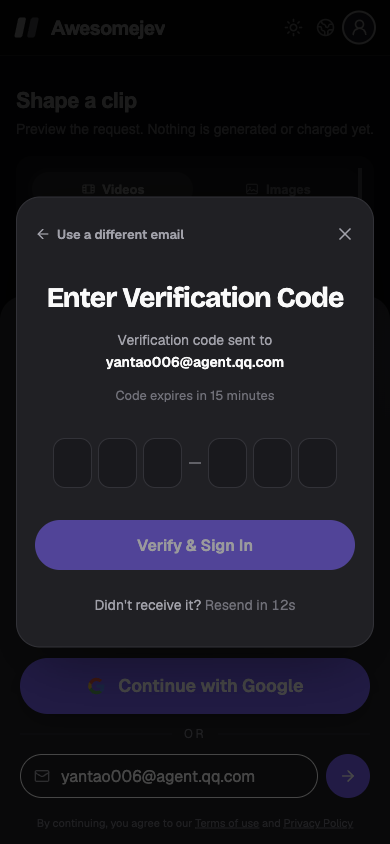
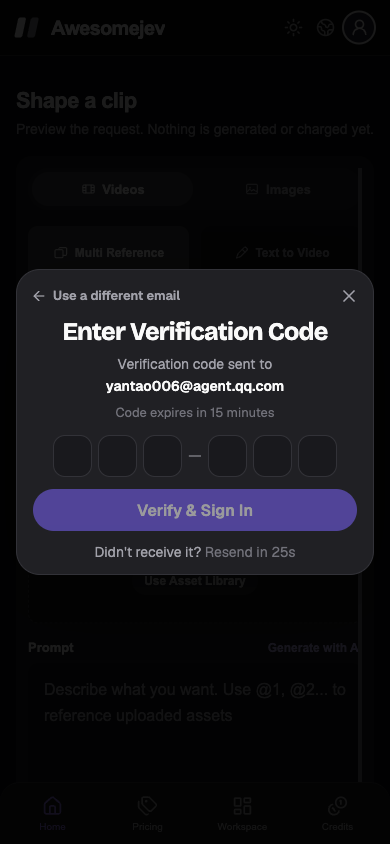
Show wide OTP card alone and close full sign-in

diff --git a/src/components/blocks/auth-6.css b/src/components/blocks/auth-6.css
@@ -1,21 +1,21 @@
 .auth6-overlay { position: fixed; inset: 0; z-index: 120; display: grid; place-items: center; padding: 16px; background: rgba(0,0,0,.72); }
-.auth6-dialog { width: min(100%, 420px); max-height: calc(100dvh - 32px); overflow-y: auto; overscroll-behavior: contain; border: 1px solid var(--auth-card-line); border-radius: 24px; background: var(--auth-card-panel); color: var(--auth-card-text); box-shadow: 0 24px 70px -16px rgba(0,0,0,.48); font: 400 14px/1.5 'Auth Card Geist', system-ui, sans-serif; }
+.auth6-dialog { width: min(100%, 580px); max-height: calc(100dvh - 32px); overflow-y: auto; overscroll-behavior: contain; border: 1px solid var(--auth-card-line); border-radius: 24px; background: var(--auth-card-panel); color: var(--auth-card-text); box-shadow: 0 24px 70px -16px rgba(0,0,0,.48); font: 400 14px/1.5 'Auth Card Geist', system-ui, sans-serif; }
 .auth6-dialog *, .auth6-dialog *::before, .auth6-dialog *::after { box-sizing: border-box; }
 .auth6-dialog button, .auth6-dialog input { font: inherit; }
 .auth6-dialog button { cursor: pointer; }
 .auth6-dialog :is(button, input):focus-visible { outline: 2px solid var(--auth-card-focus); outline-offset: 3px; }
-.auth6-content { padding: 24px 28px 36px; text-align: center; }
+.auth6-content { padding: 24px 40px 32px; text-align: center; }
 .auth6-top { display: flex; align-items: center; justify-content: space-between; gap: 12px; }
 .auth6-top button { display: inline-flex; align-items: center; justify-content: center; padding: 6px; border: 0; background: transparent; color: var(--auth-card-muted); transition: color .2s; }
 .auth6-top button:hover { color: var(--auth-card-text); }
 .auth6-top .auth6-back { gap: 6px; margin-left: -6px; font-size: 13px; font-weight: 600; }
 .auth6-top .auth6-close { margin-right: -6px; border-radius: 50%; }
-.auth6-intro { margin-top: 40px; }
+.auth6-intro { margin-top: 20px; }
 .auth6-intro h2 { margin: 0; font: 700 28px/1.15 'Auth Card Bricolage', system-ui, sans-serif; letter-spacing: -.03em; }
 .auth6-intro p { margin: 14px 0 0; color: var(--auth-card-muted); line-height: 1.6; }
 .auth6-intro strong { display: block; overflow-wrap: anywhere; color: var(--auth-card-text); font-weight: 600; }
 .auth6-intro .auth6-expiry { margin-top: 12px; color: var(--auth-card-faint); font-size: 13px; }
-.auth6-form { margin-top: 32px; }
+.auth6-form { margin-top: 22px; }
 .auth6-form fieldset { min-width: 0; margin: 0; padding: 0; border: 0; }
 .auth6-digits { display: flex; align-items: center; justify-content: center; gap: 9px; }
 .auth6-group { display: flex; gap: 7px; }
@@ -24,20 +24,27 @@
 .auth6-digit:focus { border-color: var(--auth-card-focus); box-shadow: 0 0 0 3px rgba(122,91,255,.18); }
 .auth6-digit.is-filled { border-color: var(--auth-card-focus); }
 .auth6-separator { width: 12px; height: 1px; flex: 0 0 12px; background: var(--auth-card-muted); }
-.auth6-submit { display: flex; width: 100%; height: 50px; align-items: center; justify-content: center; margin-top: 32px; border: 0; border-radius: 9999px; background: var(--auth-card-button); color: var(--auth-card-on-button); font-size: 16px !important; font-weight: 600 !important; transition: background .2s; }
+.auth6-submit { display: flex; width: 100%; height: 48px; align-items: center; justify-content: center; margin-top: 22px; border: 0; border-radius: 9999px; background: var(--auth-card-button); color: var(--auth-card-on-button); font-size: 16px !important; font-weight: 600 !important; transition: background .2s; }
 .auth6-submit:hover:not(:disabled) { background: var(--auth-card-button-hover); }
 .auth6-submit:disabled { opacity: .55; cursor: not-allowed; }
-.auth6-resend { margin: 24px 0 0; color: var(--auth-card-muted); }
+.auth6-resend { margin: 18px 0 0; color: var(--auth-card-muted); }
 .auth6-resend button { padding: 0; border: 0; background: transparent; color: var(--auth-card-text); font-weight: 600; }
 .auth6-resend button:hover { text-decoration: underline; }
 .auth6-resend button:disabled { opacity: .5; cursor: wait; }
 .auth6-countdown { color: var(--auth-card-faint); font-variant-numeric: tabular-nums; }
 .auth6-error { margin: 16px 0 0; color: var(--auth-card-error); }
 @media (max-width: 440px) {
-  body .auth6-content { padding: 20px 18px 32px; }
-  body .auth6-intro { margin-top: 32px; }
-  body .auth6-digit { width: 39px; height: 50px; }
+  body .auth6-content { padding: 12px 16px; }
+  body .auth6-top button { padding: 4px; }
+  body .auth6-intro { margin-top: 8px; }
+  body .auth6-intro h2 { font-size: 25px; }
+  body .auth6-intro p { margin-top: 6px; }
+  body .auth6-intro .auth6-expiry { margin-top: 5px; }
+  body .auth6-form { margin-top: 12px; }
+  body .auth6-digit { width: 39px; height: 42px; }
   body .auth6-digits { gap: 7px; }
   body .auth6-group { gap: 6px; }
+  body .auth6-submit { height: 42px; margin-top: 12px; }
+  body .auth6-resend { margin-top: 10px; }
 }
 @media (prefers-reduced-motion: reduce) { .auth6-dialog :is(button, input) { transition: none; } }

diff --git a/src/components/blocks/minimax-auth-card.tsx b/src/components/blocks/minimax-auth-card.tsx
@@ -20,9 +20,10 @@ export type MinimaxAuthCardProps = Auth4Props & {
   };
   signupCredits: number;
   onCodeOpenChange?: (open: boolean) => void;
+  onCloseAuth?: () => void;
 };
 
-export function MinimaxAuthCard({ copy, card, signupCredits, brand, logo, methods, inviteRequired, locale, callbackURL, onAuthenticated, onOAuthStart, onOAuthFailure, onCodeOpenChange }: MinimaxAuthCardProps) {
+export function MinimaxAuthCard({ copy, card, signupCredits, brand, logo, methods, inviteRequired, locale, callbackURL, onAuthenticated, onOAuthStart, onOAuthFailure, onCodeOpenChange, onCloseAuth }: MinimaxAuthCardProps) {
   const [mode, setMode] = useState<'sign-in' | 'sign-up' | 'forgot' | 'verify'>('sign-in');
   const [emailExpanded, setEmailExpanded] = useState(false);
   const [email, setEmail] = useState('');
@@ -166,6 +167,6 @@ export function MinimaxAuthCard({ copy, card, signupCredits, brand, logo, method
       </div>}
     </div>
   </div>
-  {codeOpen && <Auth6 email={sentEmail} copy={copy} onClose={closeCode} onDifferentEmail={changeEmail} onAuthenticated={() => onAuthenticated('email-code')} returnFocus={emailInput} />}
+  {codeOpen && <Auth6 email={sentEmail} copy={copy} onClose={onCloseAuth ?? closeCode} onDifferentEmail={changeEmail} onAuthenticated={() => onAuthenticated('email-code')} returnFocus={emailInput} />}
   </>;
 }

diff --git a/src/components/auth-dialog.tsx b/src/components/auth-dialog.tsx
@@ -143,9 +143,9 @@ export function AuthDialogProvider({ children, ...auth }: Omit<MinimaxAuthCardPr
   return <Context.Provider value={{ openAuth, closeAuth }}>
     <div ref={shell} className="public-shell">{children}</div>
     {open && createPortal(<div ref={backdrop} className="auth4-overlay minimax-auth-overlay" aria-label={auth.copy.signIn}>
-      <div ref={dialog} role="dialog" aria-modal={!codeOpen} aria-hidden={codeOpen} inert={codeOpen} aria-labelledby="auth4-title" className="auth4-dialog minimax-auth-dialog">
+      <div ref={dialog} role="dialog" aria-modal={!codeOpen} hidden={codeOpen} inert={codeOpen} aria-labelledby="auth4-title" className="auth4-dialog minimax-auth-dialog">
         <button type="button" className="auth4-close" onClick={closeAuth} aria-label={auth.copy.close}><X size={20} /></button>
-        <MinimaxAuthCard {...auth} callbackURL={callbackURL} onAuthenticated={onAuthenticated} onOAuthStart={onOAuthStart} onOAuthFailure={onOAuthFailure} onCodeOpenChange={setCodeOpen} />
+        <MinimaxAuthCard {...auth} callbackURL={callbackURL} onAuthenticated={onAuthenticated} onOAuthStart={onOAuthStart} onOAuthFailure={onOAuthFailure} onCodeOpenChange={setCodeOpen} onCloseAuth={closeAuth} />
       </div>
     </div>, document.body)}
   </Context.Provider>;

diff --git a/test/auth-dialog.test.ts b/test/auth-dialog.test.ts
@@ -101,7 +101,9 @@ test('one shared Auth-4 dialog uses server session confirmation and does not rep
   assert.match(shell, /<AuthDialogProvider/);
   assert.match(provider, /createPortal\(/);
   assert.match(provider, /active: open && !codeOpen/);
-  assert.match(provider, /inert=\{codeOpen\}/);
+  assert.match(provider, /hidden=\{codeOpen\} inert=\{codeOpen\}/);
+  assert.match(provider, /onCloseAuth=\{closeAuth\}/);
+  assert.match(source('src/components/blocks/minimax-auth-card.tsx'), /onClose=\{onCloseAuth \?\? closeCode\}/);
   assert.match(provider, /\/api\/auth\/get-session/);
   assert.match(provider, /if \(!\(await serverHasSession\(\)\)\)/);
   assert.match(auth4, /authClient\.emailOtp\.sendVerificationOtp/);

diff --git a/docs/verification/email-otp-dialog/README.md b/docs/verification/email-otp-dialog/README.md
@@ -4,23 +4,24 @@ Preview alias:
 
 https://popovers-awesomejev-test.yantao006.workers.dev/en
 
-Worker version: `19c78194-f102-4e77-8cb7-7ff8ca82f162`.
-Uploaded using `pnpm cf:build` and `pnpm exec wrangler versions upload --preview-alias popovers --message otp-dialog`, not deployed to production.
+Worker version: `a17c646e-c744-4eef-bc32-d351bfa22a0f`.
+Uploaded using `pnpm cf:build` and `pnpm exec wrangler versions upload --preview-alias popovers --message otp-wide-mobile`, not deployed to production.
 `SITE_URL` was not changed.
 
 ## Unsigned ego-browser run
 
 Opened Sign In and the email entry within the source-inspired card.
 Submitted an owner-controlled email address and waited for a successful send response before the separate dialog appeared.
-The code was not shown inside the email card.
+The email card disappears while the code dialog is open, leaving only the page behind the wide dialog.
 Confirmed the top-left Use a different email action, top-right close button, no diamond icon, Enter Verification Code, a separate stronger email line after Verification code sent to, Code expires in 15 minutes, grouped six fields with central divider, a disabled Verify & Sign In until six digits, and Didn't receive it? with Resend in Ns followed by Resend code.
-At 2548 × 1341 the dialog measured 420 × 471px; at 390 × 844 it measured 358 × 451px with no horizontal overflow.
+At 1440 × 900 the dialog measured 580 × 419px; at 390 × 844 it measured 358 × 306px with no horizontal overflow.
+Both measured widths exceed their heights.
 The desktop dialog used the existing dark auth-card panel and purple button token.
 Entered one digit to confirm focus advanced; Backspace on an empty field focused the previous field; pasted six digits to confirm all cells filled and the verify button enabled.
 Did not submit a real code.
 Clicked Use a different email and confirmed focus returned to the original editable email input with the code layer closed.
 Changed the email, sent a second code, waited for the 30-second cooldown and clicked Resend code; the cooldown restarted on successful resend.
-Clicked the close X and confirmed only the code layer closed while the email card remained open with the current address.
+Clicked the close X and confirmed the whole sign-in flow closed, with neither the code layer nor email card left open.
 
 Screenshots:
 

diff --git a/README.md b/README.md
@@ -91,11 +91,12 @@ The expanded email input follows the OR divider in a column flow with 12px of se
 
 The preview alias now serves `minimax-auth-card.tsx` for the email entry and the licensed Auth-6 adaptation in `src/components/blocks/auth-6.tsx` for the six-digit code.
 The Auth-4 original and Google sign-in remain unchanged.
-A successful send opens the independent dialog, while verification and resend call the existing better-auth email OTP methods.
-An ego-browser unsigned desktop and 390px mobile run confirmed the dialog, copy, grouping, paste/auto-advance/backspace, resend cooldown, email-change return, and code-only close.
+A successful send hides the email card and opens the independent wide dialog; Use a different email restores the card, while closing the code dialog exits sign-in entirely.
+Verification and resend call the existing better-auth email OTP methods.
+An ego-browser unsigned desktop and 390px mobile run confirmed the wide dialog without the login card behind it, copy, grouping, paste/auto-advance/backspace, resend cooldown, email-change return, and full sign-in close.
 No received code was entered, so this browser run did not prove a completed sign-in.
 Desktop and mobile captures and the detailed checklist are in [email OTP dialog verification](docs/verification/email-otp-dialog/README.md).
-Worker version `19c78194-f102-4e77-8cb7-7ff8ca82f162` was uploaded to the existing preview alias without deploying to the live hostname.
+Worker version `a17c646e-c744-4eef-bc32-d351bfa22a0f` was uploaded to the existing preview alias without deploying to the live hostname.
 
 ## Site and secret boundaries
 

diff --git a/AGENTS.md b/AGENTS.md
@@ -244,7 +244,7 @@ On each request, production login accepts the Worker `SITE_URL` only when it equ
 `src/app/api/invites/redeem/route.ts` uses the shared session and browser-write guard, redeems the code through an atomic D1 batch, and grants the eligible user credits.
 `src/lib/invites.ts` owns invite code format, normalization, inventory reads, creation, and revocation.
 `src/components/site-shell.tsx` mounts one `AuthDialogProvider` for public pages; `auth-control.tsx` triggers the source-inspired copy in `blocks/minimax-auth-card.tsx` while licensed `blocks/auth-4.tsx` stays untouched.
-Below 768px the shared card uses the existing bottom drawer; email sign-in sends a mailed six-digit code and opens the separate Auth-6 dialog only after a successful send, while successful code sign-in follows the existing full-page reload.
+Below 768px the shared card uses the existing bottom drawer; email sign-in sends a mailed six-digit code and replaces the visible card with a wide Auth-6 dialog only after a successful send; the back action restores the card while close exits sign-in, and successful code sign-in follows the existing full-page reload.
 The standalone desktop callback keeps `sign-in-card.tsx` as a fallback outside that shell.
 `src/lib/auth-client.ts` owns the browser auth client, and `src/lib/browser-nav-copy.ts` assembles navigation and auth copy without sending mail strings to client props.
 Auth-4 uses Tailwind v4 theme variables and utilities without a global base reset via `postcss.config.mjs` and `src/app/globals.css`.
